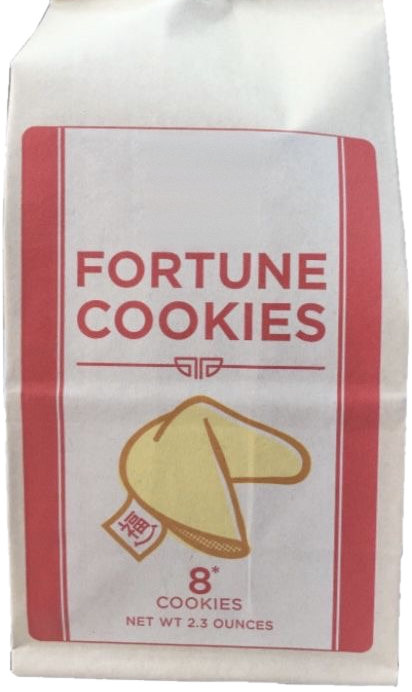
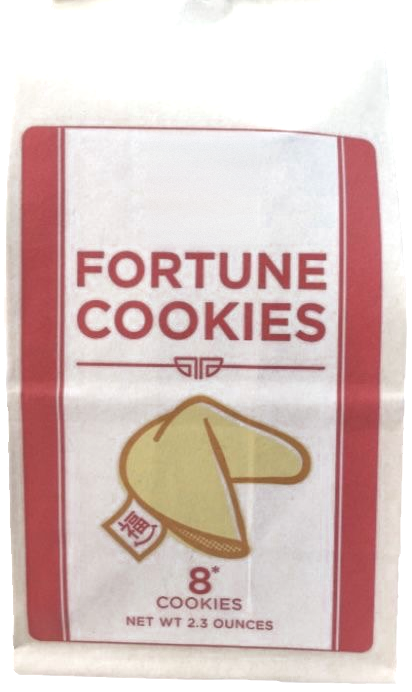
Whiten the bag and remove its grey outline
Lift the photo's greyish paper to white (leaving the red and tan inks),
pull the cut-out edge in past the grey fringe, and match the seal's gaps
to the new paper tone.

Claude-Session: https://claude.ai/code/session_01WWM1mMtMaPQoxHxgteEhMG

diff --git a/index.html b/index.html
@@ -236,15 +236,15 @@
         <circle cx="-38.5" cy="0" r="1.6"/><circle cx="38.5" cy="0" r="1.6"/>
         <!-- a daisy -->
         <g transform="rotate(8)">
-          <g id="petal"><ellipse cx="0" cy="-15" rx="4.4" ry="10.5" stroke="#cac9ca" stroke-width="1.3"/></g>
+          <g id="petal"><ellipse cx="0" cy="-15" rx="4.4" ry="10.5" stroke="#efedee" stroke-width="1.3"/></g>
           <use href="#petal" transform="rotate(30)"/><use href="#petal" transform="rotate(60)"/><use href="#petal" transform="rotate(90)"/>
           <use href="#petal" transform="rotate(120)"/><use href="#petal" transform="rotate(150)"/><use href="#petal" transform="rotate(180)"/>
           <use href="#petal" transform="rotate(210)"/><use href="#petal" transform="rotate(240)"/><use href="#petal" transform="rotate(270)"/>
           <use href="#petal" transform="rotate(300)"/><use href="#petal" transform="rotate(330)"/>
         </g>
-        <circle r="7.5" fill="#cac9ca"/>
+        <circle r="7.5" fill="#efedee"/>
         <circle r="5.4"/>
-        <g fill="#cac9ca"><circle cx="-1.8" cy="-1.6" r=".9"/><circle cx="1.6" cy="-.6" r=".9"/><circle cx="-.4" cy="1.9" r=".9"/></g>
+        <g fill="#efedee"><circle cx="-1.8" cy="-1.6" r=".9"/><circle cx="1.6" cy="-.6" r=".9"/><circle cx="-.4" cy="1.9" r=".9"/></g>
       </g>
     </svg>
     <img class="band" src="img/bag-top.png" alt="" width="412" height="78">

diff --git a/img/make-bag.py b/img/make-bag.py
@@ -42,7 +42,20 @@ while q:
     if x<W-1: q.append((x+1,y))
     if y>0: q.append((x,y-1))
     if y<H-1: q.append((x,y+1))
-alpha=alpha.filter(ImageFilter.MinFilter(3)).filter(ImageFilter.GaussianBlur(.8))
+# pull the edge in past the photo's grey outline, softly
+alpha=alpha.filter(ImageFilter.MinFilter(5)).filter(ImageFilter.GaussianBlur(.8))
+
+# 2b. lift the greyish paper to white; coloured ink (red label, tan band) is left mostly alone
+for y in range(H):
+    for x in range(W):
+        r,g,b=px[x,y]; mx=max(r,g,b); sat=(mx-min(r,g,b))/max(mx,1)
+        k=1+0.19*max(0.0,1-sat*5)
+        px[x,y]=(min(255,int(r*k)),min(255,int(g*k)),min(255,int(b*k)))
+
+# edge pixels take the lightest nearby colour so no grey fringe shows against the page
+lightest=im.filter(ImageFilter.MaxFilter(5))
+edge=alpha.point(lambda v:255 if 0<v<250 else 0)
+im=Image.composite(lightest,im,edge)
 rgba=im.copy(); rgba.putalpha(alpha)
 
 # 3. crop and split at the bottom of the folded band
